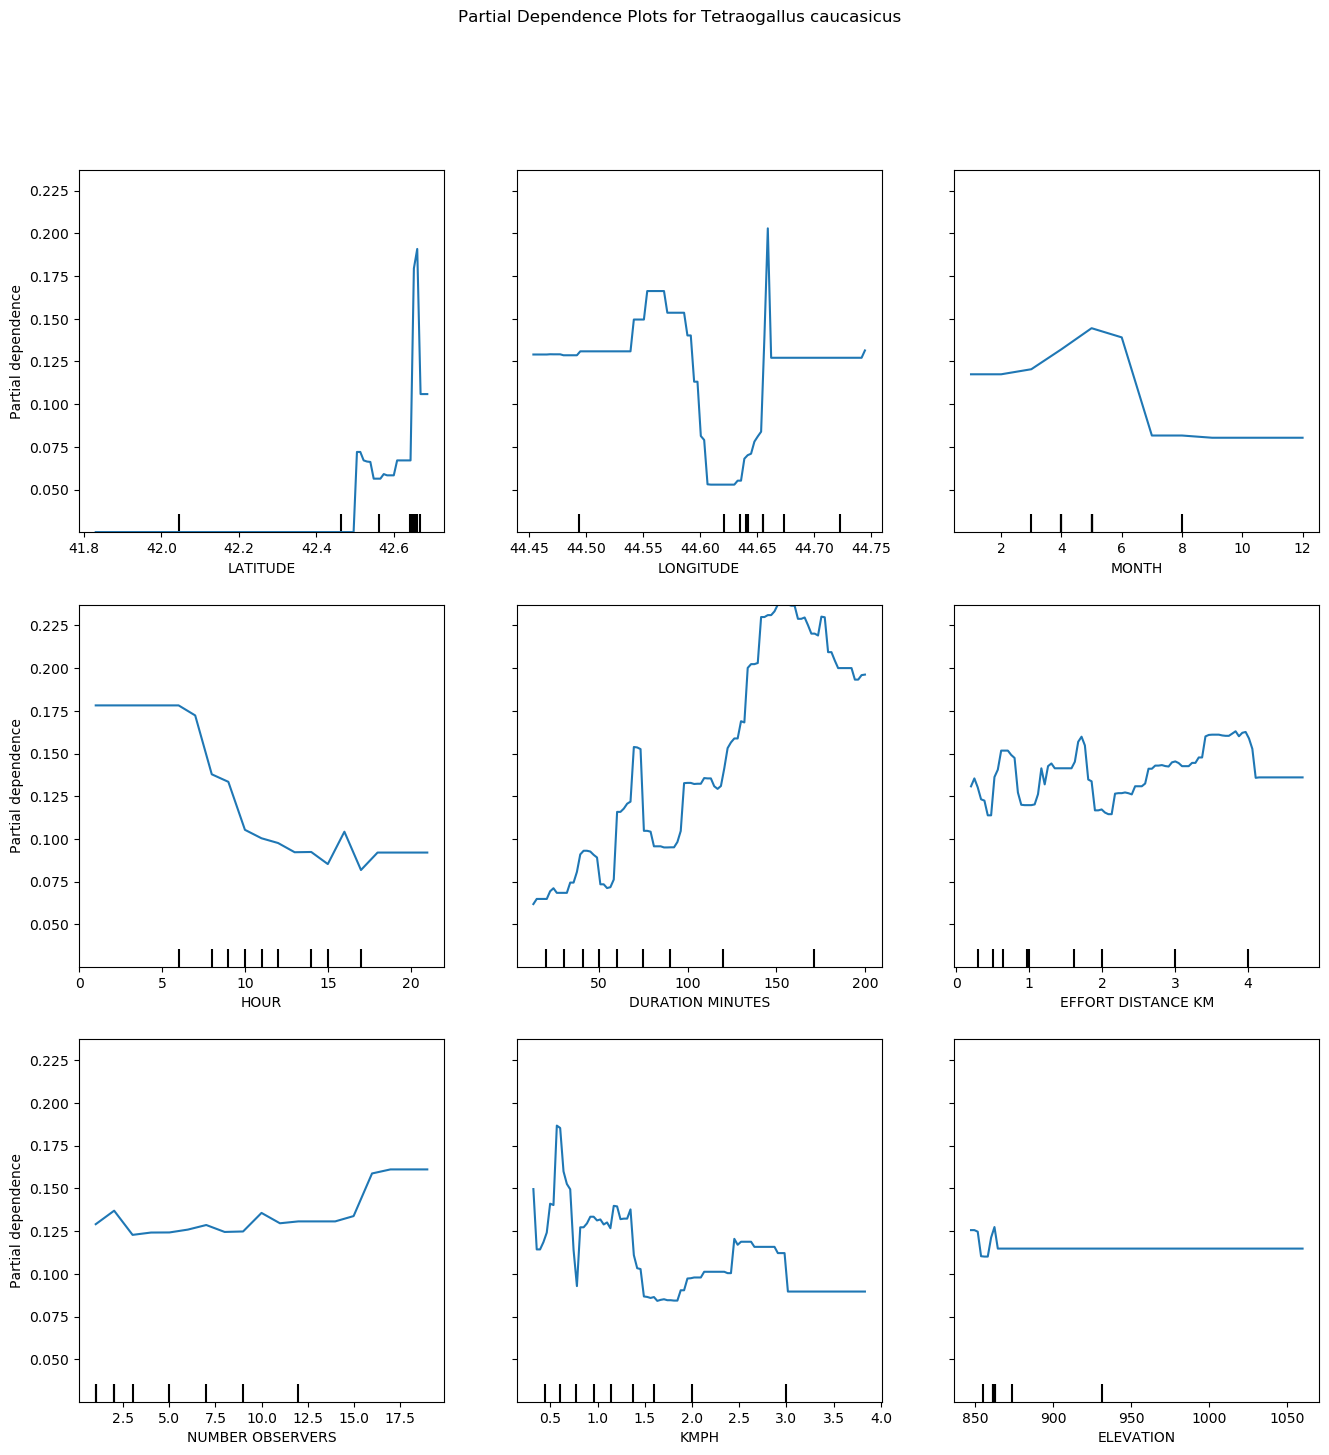
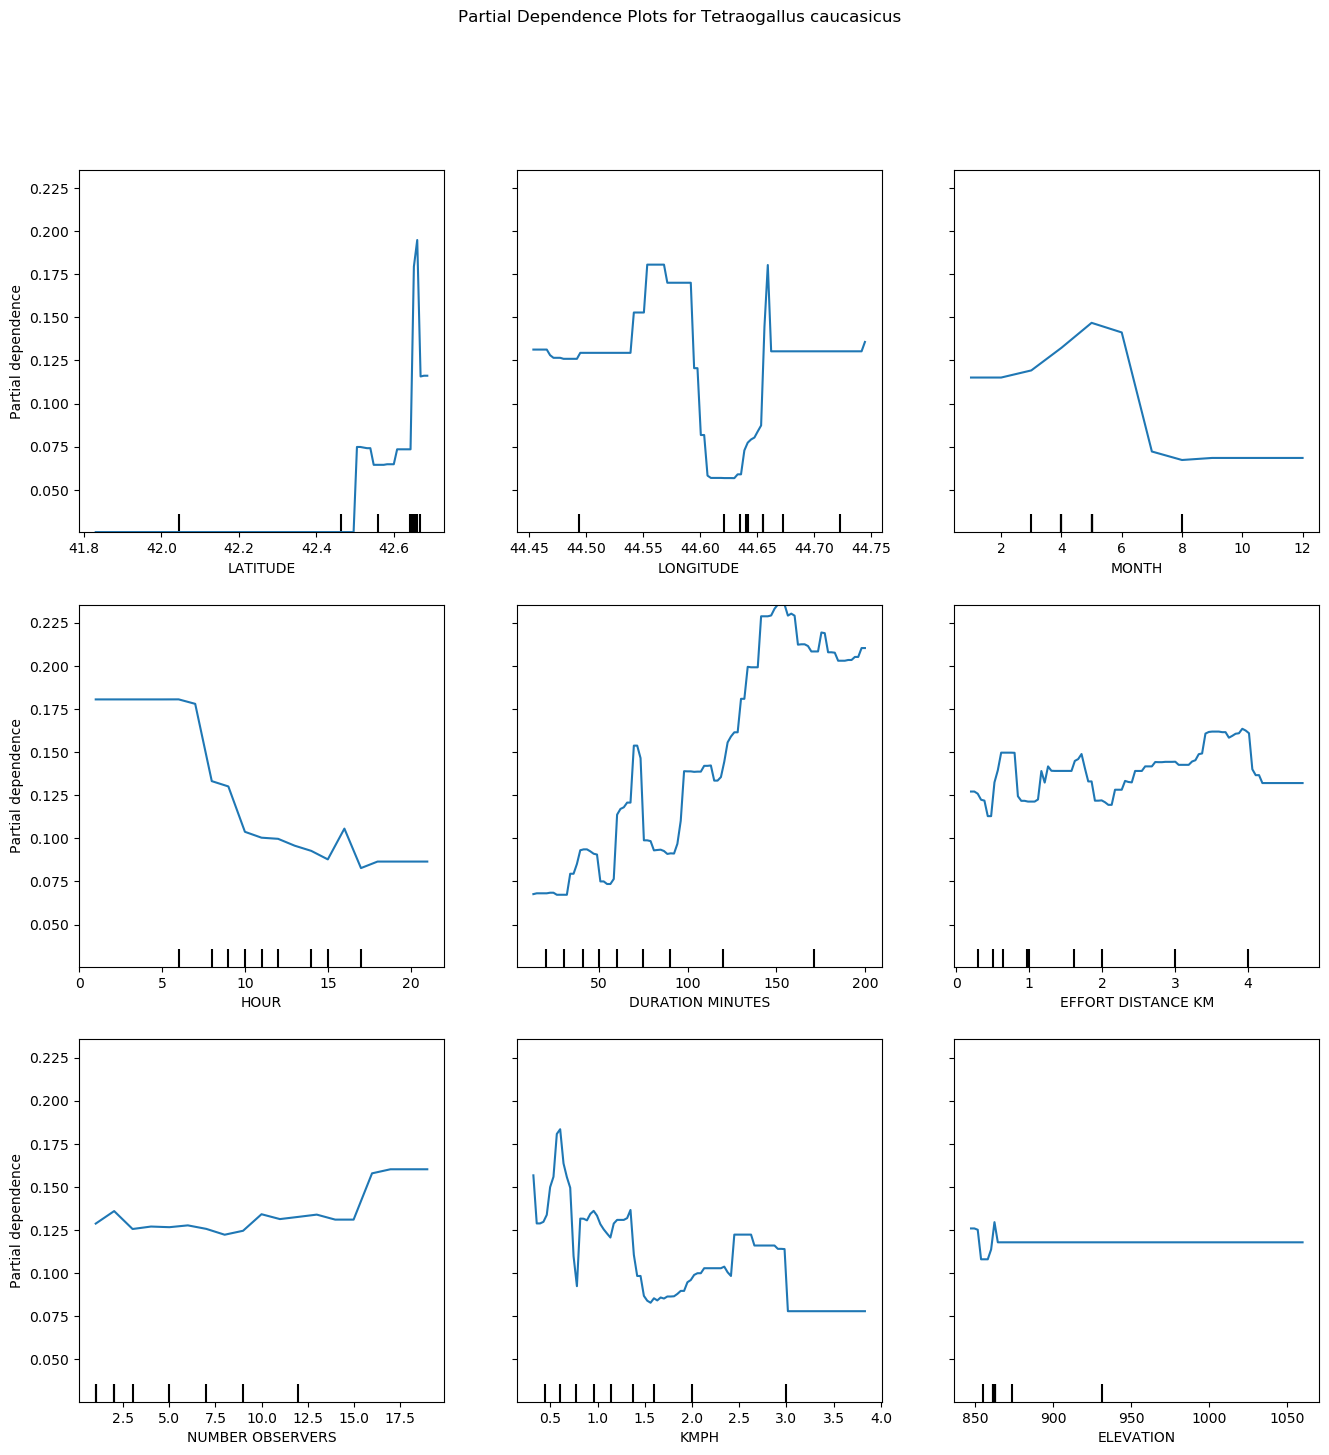
Modelled birds and produced map

diff --git a/model_occurence.py b/model_occurence.py
@@ -8,6 +8,7 @@ from sklearn.inspection import PartialDependenceDisplay
 import requests
 import json
 import matplotlib.pyplot as plt
+import plotly.express as px
 
 RANDOM_STATE = 0
 
@@ -50,6 +51,10 @@ dfg['MONTH'] = dfg['OBSERVATION DATE'].apply(lambda x: int(x[5:7]))
 dfg['HOUR'] = dfg['TIME OBSERVATIONS STARTED'].apply(lambda x: int(x[:2]))
 dfg['KMPH'] = dfg['EFFORT DISTANCE KM'] * 60 / dfg['DURATION MINUTES']
 
+# Round latitude and longitude to 4 decimal places
+dfg['LATITUDE'] = dfg['LATITUDE'].round(4)
+dfg['LONGITUDE'] = dfg['LONGITUDE'].round(4)
+
 # Method to calculate elevation based on API
 def request_elevation(lat, lon):
     try:
@@ -58,9 +63,36 @@ def request_elevation(lat, lon):
     except:
         elevation = np.nan
         print(f'Failed to retrieve elevation for {lat}, {lon}')
+    sleep(0.05)
     return elevation
 
-dfg['ELEVATION'] = dfg.apply(lambda x: request_elevation(x['LATITUDE'], x['LONGITUDE']), axis=1)
+#dfg['ELEVATION'] = dfg.apply(lambda x: request_elevation(x['LATITUDE'], x['LONGITUDE']), axis=1)
+
+def request_elevation_dataframe(df):
+    lat_lon_combs = df[['LATITUDE', 'LONGITUDE']].drop_duplicates().reset_index(drop=True)
+    for i in range(0, lat_lon_combs.shape[0]+1, 100):
+        # Get values for API call
+        df_call = lat_lon_combs.iloc[i:i+100]
+        call = '|'.join([str(r['LATITUDE'])+','+str(r['LONGITUDE']) for i, r in df_call.iterrows()])
+        
+        # Make API call
+        try:
+            res = requests.get(f'https://api.opentopodata.org/v1/test-dataset?locations={call}')
+            res = json.loads(res.content)['results']
+        except:
+            res = []
+            print(f'Failed to retrieve elevation')
+        
+        # Process results
+        for row in res:
+            lat = row['location']['lat']
+            lon = row['location']['lng']
+            elevation = row['elevation']
+            df.loc[(dfg['LATITUDE']==lat) & (df['LONGITUDE']==lon), 'ELEVATION'] = elevation
+    sleep(1)
+    return df
+
+dfg = request_elevation_dataframe(dfg)
 
 # Training columns for models (note: predicted classes are species)
 MODEL_COLS = ['LATITUDE', 'LONGITUDE', 'MONTH', 'HOUR', 'DURATION MINUTES', 'EFFORT DISTANCE KM',
@@ -85,3 +117,33 @@ for index, bird in enumerate(SPECIES):
     PartialDependenceDisplay.from_estimator(models[index], dfg_train[MODEL_COLS], MODEL_COLS, ax=ax, random_state=RANDOM_STATE)
     plt.suptitle(f'Partial Dependence Plots for {bird}')
     plt.savefig(f'./fig/{bird.lower().replace(" ", "_")}_partial_dependence_all.png', bbox_inches='tight')
+
+
+# Create coordinate range DataFrame
+lat_range = np.arange(42.60, 42.70, 0.01)
+lon_range = np.arange(44.55, 44.70, 0.01)
+coord_range = []
+for i in lat_range:
+    for j in lon_range:
+        coord_range.append((i, j))
+dfm = pd.DataFrame(coord_range, columns=['LATITUDE', 'LONGITUDE'])
+
+# Add in dummy values
+dfm['MONTH'] = 7
+dfm['HOUR'] = 7
+dfm['DURATION MINUTES'] = 120
+dfm['EFFORT DISTANCE KM'] = 2
+dfm['NUMBER OBSERVERS'] = 1
+dfm['KMPH'] = dfm['EFFORT DISTANCE KM'] * 60 / dfm['DURATION MINUTES']
+#dfm['ELEVATION'] = dfm.apply(lambda x: request_elevation(x['LATITUDE'], x['LONGITUDE']), axis=1)
+dfm = request_elevation_dataframe(dfm)
+
+# Predict occurence and plot on map
+for index, bird in enumerate(SPECIES):
+    dfm['Occurence'] = models[index].predict_proba(dfm[MODEL_COLS])[:,1]
+    fig = px.density_mapbox(dfm, lat='LATITUDE', lon='LONGITUDE', z='Occurence', radius=100,
+                            center=dict(lat=42.6571, lon=44.6401), zoom=11, opacity=0.6,
+                            mapbox_style="open-street-map")
+    #fig.show()
+    fig.write_image(f'./fig/{bird.lower().replace(" ", "_")}_modelled_map.png')
+    #dfm.to_csv(f'./data/{bird.lower().replace(" ", "_")}_occurence.csv', index=False)

diff --git a/README.md b/README.md
@@ -58,9 +58,19 @@ We will fit a simple XGBoost model (a gradient boosted random tree model) to mod
 
 The features we will use in our model are: latitude, longitude, month, hour, duration, distance travelled, number of birders, speed of travel, and elevation.
 
-All features can be obtained from the eBird data except for elevation. To obtain elevation we will use the Open Topo Data API, which requires an API call for each row of data. Since we do not have tens of thousands of rows of data this will not be an issue, but we would need an alternative method if we had more checklists.
+All features can be obtained from the eBird data except for elevation. To obtain elevation we will use the Open Topo Data API, which requires an API call for every hundred data. Since we do not have hundreds of thousands of rows of data this will not be an issue, but we would need an alternative method if we had more checklists.
 
-The modelling is done in `model_occurence.py`.
+The modelling is done in `model_occurence.py`. We split our checklists into a training and validation set using a 90/10 split. The caucasian grouse model has an F1 score of 0.8387. The caucasian snowcock model has an F1 score of 0.6857.
+
+We can create a map of occurence chance by feeding data back into the models for predictions. These maps are centred on the town of Stepantsminda, an easy-to-get-to location where many of the bird sightings have been.
+
+![Possible locations for future Caucasian grouse sightings](./fig/lyrurus_mlokosiewiczi_modelled_map.png)
+
+The map above is from the caucasian grouse map. We can conclude that we have the best chance of seeing a caucasian grouse in the mountains to the west of the town, but there is also the possibility to see them on the hiking trails to the north east as well.
+
+![Possible locations for future Caucasian snowcock sightings](./fig/tetraogallus_caucasicus_modelled_map.png)
+
+The modelling for the caucasian snowcock suggests a more restricted area for spotting the bird. If we want to see the caucasian snowcock we should focus our time on the mountains to the west.
 
 ## Partial Dependence Plots: Optimising Factors
 
@@ -69,6 +79,12 @@ Once we have our model we can create partial dependence plots to see how we can 
 ![Partial dependence plots for Caucasian grouse sightings](./fig/lyrurus_mlokosiewiczi_partial_dependence_all.png)
 
 ![Partial dependence plots for Caucasian snowcock sightings](./fig/tetraogallus_caucasicus_partial_dependence_all.png)
+
+Returning to our previous hypothesis regarding what time to look for the birds, there is a strong preference for birdwatching in the morning. However, for the caucasian grouse we can also search in the evening.
+
+As you would expect, a longer birdwatching journey has a greater chance of seeing these rare birds. In the case of the caucasian grouse we can increase of chances by birdwatching for at least an hour. For the caucasian snowcock we want to birdwatch for as long as possible.
+
+However, for both birds we don't need to cover as much ground as possible. Distance covered does not have a major impact on the model, and there is a preference for travelling at a slower pace (<2kmph).
 
 ## Similarly Sighted Species
 
@@ -81,3 +97,13 @@ In `cosine_species.py` we also calculate a cosine similarity between the target 
 ![The most similarly seen birds alongside the caucasian birds](./fig/cosine_similars.png)
 
 From this chart we know that if we see one of the caucasian birds then we are likely to see the other one. Ring ouzel, water pipit, northern wheatear, and fire-fronted serin are other birds that are likely to indicate the presence of the two caucasian birds. The blackbird, a bird that our rudimentary analysis suggested was a key indicator, still does appear but it's importance is not as strong.
+
+## Conclusion
+
+From our analysis, we can conclude that our best chance of seeing the caucasian grouse and caucasian snowcock in Georgia is by heading to the Mtskheta-Mtianeti region. Specifically we want to head to the mountains to the east of Stepantsminda. For the caucasian grouse we also have a chance of seeing them by walking on the eastern hiking trails.
+
+In terms of our activities, we should head out early in the morning, as the chances of sighting the birds drops off after 10am.
+
+Despite this, we do not need to cover as much ground as possible. It is more important to cover the ground slowly, and to stay out birdwatching for at least an hour. The longer we birdwatch the better, particularly for the caucasian snowcock.
+
+Other birds that we are likely to see are the ring ouzel, water pipit, northern wheatear, and fire-fronted serin. These birds can be used as indicators that we are in the right location to spot the two caucasian birds.
